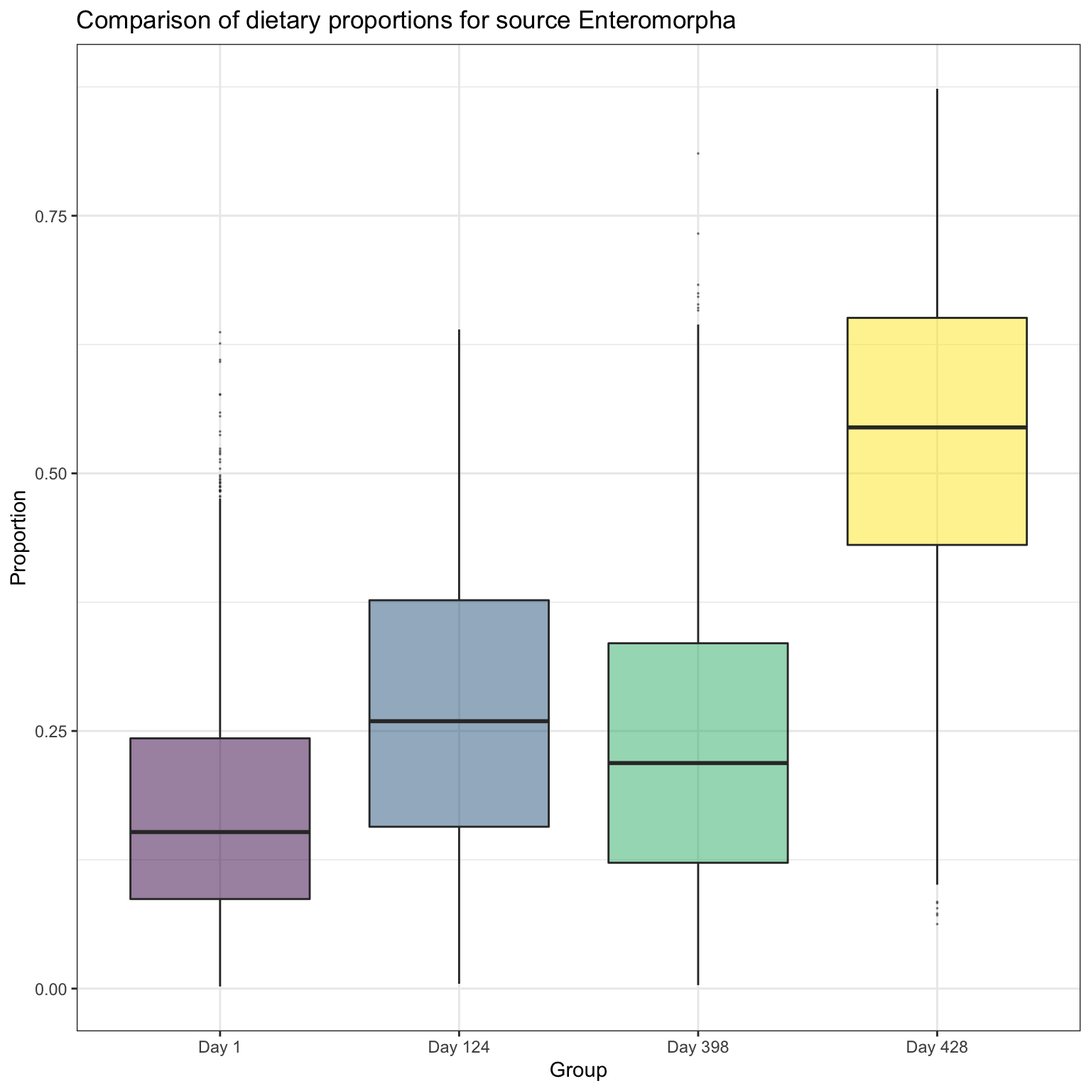
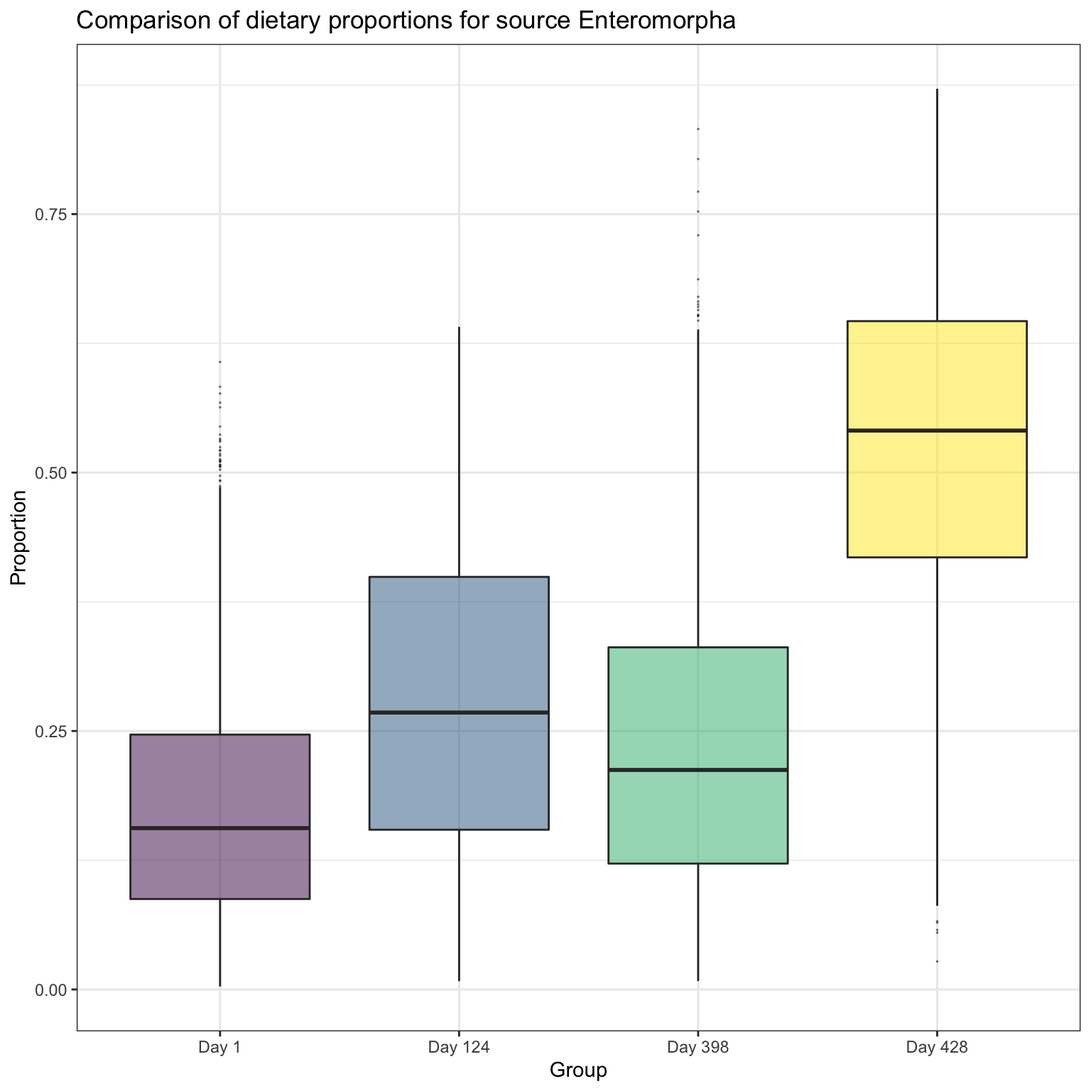
Updated pkg down

diff --git a/docs/articles/simmr.html b/docs/articles/simmr.html
@@ -210,7 +210,7 @@
 </div>
 <div id="step-3-running-simmr" class="section level3">
 <h3 class="hasAnchor">
-<a href="#step-3-running-simmr" class="anchor"></a>Step 3: running simmr</h3>
+<a href="#step-3-running-simmr" class="anchor"></a>Step 3: Running simmr</h3>
 <p>The next step is to actually run the model. This is achieved with the command:</p>
 <div class="sourceCode" id="cb7"><html><body><pre class="r"><span class="no">simmr_out</span> <span class="kw">=</span> <span class="fu"><a href="../reference/simmr_mcmc.html">simmr_mcmc</a></span>(<span class="no">simmr_in</span>)</pre></body></html></div>
 <pre><code>## module glm loaded</code></pre>
@@ -219,7 +219,7 @@
 </div>
 <div id="step-4-checking-the-algorithm-converged" class="section level3">
 <h3 class="hasAnchor">
-<a href="#step-4-checking-the-algorithm-converged" class="anchor"></a>Step 4: checking the algorithm converged</h3>
+<a href="#step-4-checking-the-algorithm-converged" class="anchor"></a>Step 4: Checking the algorithm converged</h3>
 <p>Markov chain Monte Carlo (MCMC) works by repeatedly guessing the values of the dietary proportions and find those values which fit the data best. The initial guesses are usually poor and are discarded as part of an initial phase known as the burn-in. Subsequent iterations are then stored and used for the <em>posterior distribution</em>; the best estimates of the dietary proportions given the data and the model. Because it can take many thousands of iterations to move away from the initial guesses, <em>convergence diagnostics</em> can be created to check the model has run properly. In <code>simmr</code> this is done with:</p>
 <div class="sourceCode" id="cb9"><html><body><pre class="r"><span class="fu"><a href="https://rdrr.io/r/base/summary.html">summary</a></span>(<span class="no">simmr_out</span>, <span class="kw">type</span> <span class="kw">=</span> <span class="st">'diagnostics'</span>)</pre></body></html></div>
 <pre><code>## 
@@ -234,7 +234,7 @@
 </div>
 <div id="step-5-checking-the-model-fit" class="section level3">
 <h3 class="hasAnchor">
-<a href="#step-5-checking-the-model-fit" class="anchor"></a>Step 5: checking the model fit</h3>
+<a href="#step-5-checking-the-model-fit" class="anchor"></a>Step 5: Checking the model fit</h3>
 <p>You can check the fit of the model with a posterior predictive check. This is similar to a fitted values plot in a linear regression. If the data points (denoted by the plot as <span class="math inline">\(y\)</span>) broadly lie in the fitted value intervals (denoted <span class="math inline">\(y_rep\)</span>; the default is a 50% interval) then the model is fitting well:</p>
 <div class="sourceCode" id="cb11"><html><body><pre class="r"><span class="no">post_pred</span> <span class="kw">=</span> <span class="fu"><a href="../reference/posterior_predictive.html">posterior_predictive</a></span>(<span class="no">simmr_out</span>)</pre></body></html></div>
 <p><img src="simmr_files/figure-html/unnamed-chunk-10-1.png" width="700"></p>
@@ -243,7 +243,7 @@
 </div>
 <div id="step-6-exploring-the-results" class="section level3">
 <h3 class="hasAnchor">
-<a href="#step-6-exploring-the-results" class="anchor"></a>Step 6: exploring the results</h3>
+<a href="#step-6-exploring-the-results" class="anchor"></a>Step 6: Exploring the results</h3>
 <p>All SIMMs use informative (usually generalist) prior distributions as a default. You can plot the priors and the posteriors with:</p>
 <div class="sourceCode" id="cb13"><html><body><pre class="r"><span class="fu"><a href="../reference/prior_viz.html">prior_viz</a></span>(<span class="no">simmr_out</span>)</pre></body></html></div>
 <p><img src="simmr_files/figure-html/unnamed-chunk-11-1.png" width="700"></p>
@@ -252,24 +252,24 @@
 <pre><code>## 
 ## Summary for 1 
 ##                mean    sd
-## deviance     36.331 3.175
-## Zostera       0.219 0.131
-## Grass         0.286 0.079
-## U.lactuca     0.275 0.032
-## Enteromorpha  0.220 0.122
-## sd[d13C]      0.553 0.234
-## sd[d15N]      0.433 0.232</code></pre>
+## deviance     36.338 3.219
+## Zostera       0.220 0.131
+## Grass         0.288 0.080
+## U.lactuca     0.277 0.032
+## Enteromorpha  0.216 0.119
+## sd[d13C]      0.553 0.233
+## sd[d15N]      0.427 0.234</code></pre>
 <div class="sourceCode" id="cb16"><html><body><pre class="r"><span class="fu"><a href="https://rdrr.io/r/base/summary.html">summary</a></span>(<span class="no">simmr_out</span>, <span class="kw">type</span> <span class="kw">=</span> <span class="st">'quantiles'</span>)</pre></body></html></div>
 <pre><code>## 
 ## Summary for 1 
 ##                2.5%    25%    50%    75%  97.5%
-## deviance     32.246 33.986 35.658 37.947 44.242
-## Zostera       0.030  0.111  0.200  0.311  0.500
-## Grass         0.147  0.229  0.281  0.335  0.454
-## U.lactuca     0.215  0.253  0.274  0.296  0.343
-## Enteromorpha  0.033  0.122  0.208  0.305  0.468
-## sd[d13C]      0.191  0.400  0.515  0.677  1.114
-## sd[d15N]      0.049  0.277  0.413  0.554  0.977</code></pre>
+## deviance     32.286 34.003 35.667 37.962 44.238
+## Zostera       0.030  0.116  0.199  0.306  0.509
+## Grass         0.142  0.233  0.283  0.337  0.462
+## U.lactuca     0.214  0.255  0.276  0.297  0.343
+## Enteromorpha  0.033  0.121  0.202  0.300  0.473
+## sd[d13C]      0.187  0.397  0.525  0.676  1.078
+## sd[d15N]      0.044  0.271  0.402  0.552  0.955</code></pre>
 <p>These suggest that the dietary proportions for this model are quite uncertain. However we can see that the credible interval for U.lactuca is the narrowest, running from approximately 20% to 35% of the diet. The reason this one is the narrowest can be seen from the isospace plot - this source is the most clearly separated from the others.</p>
 <p><code>simmr</code> can also produce histograms, boxplots, density plots, and matrix plots of the output. Starting with the density plot:</p>
 <div class="sourceCode" id="cb18"><html><body><pre class="r"><span class="fu"><a href="https://rdrr.io/r/base/plot.html">plot</a></span>(<span class="no">simmr_out</span>, <span class="kw">type</span> <span class="kw">=</span> <span class="st">'density'</span>)</pre></body></html></div>
@@ -282,7 +282,7 @@
 <p>If you want to compare the dietary proportions between two different sources, you can use the <code>compare_sources</code> function. This takes two or more sources and compares the dietary proportions with an optional plot. For example:</p>
 <div class="sourceCode" id="cb20"><html><body><pre class="r"><span class="fu"><a href="../reference/compare_sources.html">compare_sources</a></span>(<span class="no">simmr_out</span>,
                 <span class="kw">source_names</span> <span class="kw">=</span> <span class="fu"><a href="https://rdrr.io/r/base/c.html">c</a></span>(<span class="st">'Zostera'</span>,<span class="st">'U.lactuca'</span>))</pre></body></html></div>
-<pre><code>## Prob ( proportion of Zostera &gt; proportion of U.lactuca ) = 0.337</code></pre>
+<pre><code>## Prob ( proportion of Zostera &gt; proportion of U.lactuca ) = 0.328</code></pre>
 <p><img src="simmr_files/figure-html/unnamed-chunk-15-1.png" width="672" style="display: block; margin: auto;"></p>
 <p>This produces a direct probability that the dietary proportion for the first source is bigger than that of the second. If you want to compare more than two sources, specify them with:</p>
 <div class="sourceCode" id="cb22"><html><body><pre class="r"><span class="fu"><a href="../reference/compare_sources.html">compare_sources</a></span>(<span class="no">simmr_out</span>,
@@ -291,12 +291,12 @@
                                  <span class="st">'Enteromorpha'</span>))</pre></body></html></div>
 <pre><code>## Most popular orderings are as follows:
 ##                                    Probability
-## Zostera &gt; U.lactuca &gt; Enteromorpha      0.3011
-## Enteromorpha &gt; U.lactuca &gt; Zostera      0.2869
-## U.lactuca &gt; Enteromorpha &gt; Zostera      0.2117
-## U.lactuca &gt; Zostera &gt; Enteromorpha      0.1642
-## Zostera &gt; Enteromorpha &gt; U.lactuca      0.0192
-## Enteromorpha &gt; Zostera &gt; U.lactuca      0.0169</code></pre>
+## Zostera &gt; U.lactuca &gt; Enteromorpha      0.2914
+## Enteromorpha &gt; U.lactuca &gt; Zostera      0.2697
+## U.lactuca &gt; Enteromorpha &gt; Zostera      0.2222
+## U.lactuca &gt; Zostera &gt; Enteromorpha      0.1806
+## Zostera &gt; Enteromorpha &gt; U.lactuca      0.0214
+## Enteromorpha &gt; Zostera &gt; U.lactuca      0.0147</code></pre>
 <p><img src="simmr_files/figure-html/unnamed-chunk-16-1.png" width="672" style="display: block; margin: auto;"></p>
 <p>For further information and options on comparing sources, see <code><a href="../reference/compare_sources.html">help(compare_sources)</a></code>.</p>
 </div>
@@ -342,75 +342,75 @@
 <pre><code>## 
 ## Summary for period 1 
 ##                2.5%    25%    50%    75%  97.5%
-## deviance     51.159 52.577 54.029 56.217 62.765
-## Zostera       0.387  0.520  0.597  0.675  0.814
-## Grass         0.034  0.059  0.072  0.086  0.118
-## U.lactuca     0.023  0.075  0.126  0.194  0.318
-## Enteromorpha  0.020  0.085  0.165  0.272  0.487
-## sd[]          0.052  0.508  0.883  1.291  2.458
-## sd[]          0.014  0.178  0.367  0.646  1.412</code></pre>
+## deviance     51.126 52.534 53.954 56.204 62.655
+## Zostera       0.384  0.522  0.599  0.675  0.810
+## Grass         0.032  0.057  0.071  0.086  0.116
+## U.lactuca     0.020  0.073  0.125  0.189  0.312
+## Enteromorpha  0.024  0.092  0.169  0.273  0.482
+## sd[]          0.067  0.510  0.878  1.302  2.457
+## sd[]          0.017  0.174  0.365  0.643  1.422</code></pre>
 <div class="sourceCode" id="cb30"><html><body><pre class="r"><span class="fu"><a href="https://rdrr.io/r/base/summary.html">summary</a></span>(<span class="no">simmr_groups_out</span>,
         <span class="kw">type</span> <span class="kw">=</span> <span class="st">'quantiles'</span>,
         <span class="kw">group</span> <span class="kw">=</span> <span class="fu"><a href="https://rdrr.io/r/base/c.html">c</a></span>(<span class="fl">1</span>,<span class="fl">3</span>))</pre></body></html></div>
 <pre><code>## 
 ## Summary for period 1 
 ##                2.5%    25%    50%    75%  97.5%
-## deviance     51.159 52.577 54.029 56.217 62.765
-## Zostera       0.387  0.520  0.597  0.675  0.814
-## Grass         0.034  0.059  0.072  0.086  0.118
-## U.lactuca     0.023  0.075  0.126  0.194  0.318
-## Enteromorpha  0.020  0.085  0.165  0.272  0.487
-## sd[]          0.052  0.508  0.883  1.291  2.458
-## sd[]          0.014  0.178  0.367  0.646  1.412
+## deviance     51.126 52.534 53.954 56.204 62.655
+## Zostera       0.384  0.522  0.599  0.675  0.810
+## Grass         0.032  0.057  0.071  0.086  0.116
+## U.lactuca     0.020  0.073  0.125  0.189  0.312
+## Enteromorpha  0.024  0.092  0.169  0.273  0.482
+## sd[]          0.067  0.510  0.878  1.302  2.457
+## sd[]          0.017  0.174  0.365  0.643  1.422
 ## 
 ## Summary for period 3 
 ##                 2.5%     25%     50%     75%   97.5%
-## deviance     454.624 456.485 458.095 460.305 466.940
-## Zostera        0.010   0.025   0.037   0.052   0.088
-## Grass          0.391   0.416   0.428   0.437   0.453
-## U.lactuca      0.282   0.392   0.437   0.471   0.519
-## Enteromorpha   0.016   0.052   0.091   0.144   0.289
-## sd[]           0.419   0.658   0.766   0.876   1.072
-## sd[]           0.007   0.076   0.159   0.266   0.540</code></pre>
+## deviance     454.626 456.436 458.104 460.279 466.858
+## Zostera        0.010   0.025   0.037   0.052   0.089
+## Grass          0.390   0.416   0.427   0.436   0.452
+## U.lactuca      0.277   0.390   0.434   0.469   0.522
+## Enteromorpha   0.014   0.052   0.093   0.149   0.299
+## sd[]           0.416   0.664   0.774   0.877   1.081
+## sd[]           0.007   0.073   0.155   0.261   0.528</code></pre>
 <div class="sourceCode" id="cb32"><html><body><pre class="r"><span class="fu"><a href="https://rdrr.io/r/base/summary.html">summary</a></span>(<span class="no">simmr_groups_out</span>,
         <span class="kw">type</span> <span class="kw">=</span> <span class="fu"><a href="https://rdrr.io/r/base/c.html">c</a></span>(<span class="st">'quantiles'</span>,<span class="st">'statistics'</span>),
         <span class="kw">group</span> <span class="kw">=</span> <span class="fu"><a href="https://rdrr.io/r/base/c.html">c</a></span>(<span class="fl">1</span>,<span class="fl">3</span>))</pre></body></html></div>
 <pre><code>## 
 ## Summary for period 1 
 ##                2.5%    25%    50%    75%  97.5%
-## deviance     51.159 52.577 54.029 56.217 62.765
-## Zostera       0.387  0.520  0.597  0.675  0.814
-## Grass         0.034  0.059  0.072  0.086  0.118
-## U.lactuca     0.023  0.075  0.126  0.194  0.318
-## Enteromorpha  0.020  0.085  0.165  0.272  0.487
-## sd[]          0.052  0.508  0.883  1.291  2.458
-## sd[]          0.014  0.178  0.367  0.646  1.412
+## deviance     51.126 52.534 53.954 56.204 62.655
+## Zostera       0.384  0.522  0.599  0.675  0.810
+## Grass         0.032  0.057  0.071  0.086  0.116
+## U.lactuca     0.020  0.073  0.125  0.189  0.312
+## Enteromorpha  0.024  0.092  0.169  0.273  0.482
+## sd[]          0.067  0.510  0.878  1.302  2.457
+## sd[]          0.017  0.174  0.365  0.643  1.422
 ##                mean    sd
-## deviance     54.811 3.082
+## deviance     54.754 3.108
 ## Zostera       0.598 0.110
-## Grass         0.073 0.022
-## U.lactuca     0.140 0.082
-## Enteromorpha  0.189 0.126
-## sd[]          0.960 0.634
-## sd[]          0.462 0.386
+## Grass         0.072 0.021
+## U.lactuca     0.137 0.081
+## Enteromorpha  0.193 0.126
+## sd[]          0.960 0.623
+## sd[]          0.457 0.389
 ## 
 ## Summary for period 3 
 ##                 2.5%     25%     50%     75%   97.5%
-## deviance     454.624 456.485 458.095 460.305 466.940
-## Zostera        0.010   0.025   0.037   0.052   0.088
-## Grass          0.391   0.416   0.428   0.437   0.453
-## U.lactuca      0.282   0.392   0.437   0.471   0.519
-## Enteromorpha   0.016   0.052   0.091   0.144   0.289
-## sd[]           0.419   0.658   0.766   0.876   1.072
-## sd[]           0.007   0.076   0.159   0.266   0.540
+## deviance     454.626 456.436 458.104 460.279 466.858
+## Zostera        0.010   0.025   0.037   0.052   0.089
+## Grass          0.390   0.416   0.427   0.436   0.452
+## U.lactuca      0.277   0.390   0.434   0.469   0.522
+## Enteromorpha   0.014   0.052   0.093   0.149   0.299
+## sd[]           0.416   0.664   0.774   0.877   1.081
+## sd[]           0.007   0.073   0.155   0.261   0.528
 ##                 mean    sd
-## deviance     458.778 3.242
+## deviance     458.761 3.220
 ## Zostera        0.040 0.021
-## Grass          0.426 0.016
-## U.lactuca      0.427 0.061
-## Enteromorpha   0.107 0.073
-## sd[]           0.763 0.167
-## sd[]           0.188 0.142</code></pre>
+## Grass          0.425 0.016
+## U.lactuca      0.425 0.063
+## Enteromorpha   0.110 0.075
+## sd[]           0.768 0.167
+## sd[]           0.183 0.141</code></pre>
 <p>For plotting output with multiple groups you can only specify a single group to plot. This is so that you are not overwhelmed with plots:</p>
 <div class="sourceCode" id="cb34"><html><body><pre class="r"><span class="fu"><a href="https://rdrr.io/r/base/plot.html">plot</a></span>(<span class="no">simmr_groups_out</span>,
      <span class="kw">type</span> <span class="kw">=</span> <span class="st">'boxplot'</span>,
@@ -477,10 +477,10 @@
                <span class="kw">group</span> <span class="kw">=</span> <span class="fl">1</span>:<span class="fl">3</span>)</pre></body></html></div>
 <pre><code>## Most popular orderings are as follows:
 ##                                Probability
-## period 2 &gt; period 3 &gt; period 1      0.9511
-## period 2 &gt; period 1 &gt; period 3      0.0483
-## period 1 &gt; period 2 &gt; period 3      0.0003
-## period 3 &gt; period 2 &gt; period 1      0.0003</code></pre>
+## period 2 &gt; period 3 &gt; period 1      0.9483
+## period 2 &gt; period 1 &gt; period 3      0.0500
+## period 1 &gt; period 2 &gt; period 3      0.0008
+## period 3 &gt; period 2 &gt; period 1      0.0008</code></pre>
 <p><img src="simmr_files/figure-html/unnamed-chunk-26-4.png" width="672" style="display: block; margin: auto;"></p>
 </div>
 <div id="running-simmr-with-only-one-isotope" class="section level2">
@@ -532,13 +532,13 @@
 <pre><code>## 
 ## Summary for 1 
 ##                2.5%    25%    50%    75%  97.5%
-## deviance     32.246 33.986 35.658 37.947 44.242
-## Zostera       0.030  0.111  0.200  0.311  0.500
-## Grass         0.147  0.229  0.281  0.335  0.454
-## U.lactuca     0.215  0.253  0.274  0.296  0.343
-## Enteromorpha  0.033  0.122  0.208  0.305  0.468
-## sd[d13C]      0.191  0.400  0.515  0.677  1.114
-## sd[d15N]      0.049  0.277  0.413  0.554  0.977</code></pre>
+## deviance     32.286 34.003 35.667 37.962 44.238
+## Zostera       0.030  0.116  0.199  0.306  0.509
+## Grass         0.142  0.233  0.283  0.337  0.462
+## U.lactuca     0.214  0.255  0.276  0.297  0.343
+## Enteromorpha  0.033  0.121  0.202  0.300  0.473
+## sd[d13C]      0.187  0.397  0.525  0.676  1.078
+## sd[d15N]      0.044  0.271  0.402  0.552  0.955</code></pre>
 <p>All these dietary proportions are very similar. We now suppose we had prior information (e.g. from stomach or fecal contents) that the mean dietary proportions were</p>
 <div class="sourceCode" id="cb55"><html><body><pre class="r"><span class="no">proportion_means</span> <span class="kw">=</span> <span class="fu"><a href="https://rdrr.io/r/base/c.html">c</a></span>(<span class="fl">0.4</span>,<span class="fl">0.3</span>,<span class="fl">0.2</span>,<span class="fl">0.1</span>)</pre></body></html></div>
 <p>…and proportion standard deviations:</p>
@@ -550,9 +550,9 @@
 ## Mean optimisation successful.
 ## Standard deviation optimisation successful.
 ## Best fit estimates provide proportion means of:
-## 0.433 0.308 0.173 0.085
+## 0.44 0.296 0.185 0.079
 ## ... and best fit standard deviations of:
-## 0.048 0.027 0.015 0.025</code></pre>
+## 0.05 0.027 0.018 0.022</code></pre>
 <p>This may take a few moments to run as the code tries to optimise the parameters of a prior distribution which matches these means and standard deviations, which sometimes may not be exactly possible.</p>
 <p>When finished, the model can be run using these prior distributions:</p>
 <div class="sourceCode" id="cb59"><html><body><pre class="r"><span class="no">simmr_out_informative</span> <span class="kw">=</span> <span class="fu"><a href="../reference/simmr_mcmc.html">simmr_mcmc</a></span>(<span class="no">simmr_in</span>,
@@ -574,13 +574,13 @@
 <pre><code>## 
 ## Summary for 1 
 ##                2.5%    25%    50%    75%  97.5%
-## deviance     46.905 50.077 51.934 54.309 59.664
-## Zostera       0.306  0.358  0.388  0.419  0.480
-## Grass         0.284  0.320  0.338  0.355  0.388
-## U.lactuca     0.160  0.180  0.190  0.200  0.217
-## Enteromorpha  0.048  0.068  0.081  0.096  0.132
-## sd[d13C]      0.500  0.710  0.866  1.056  1.584
-## sd[d15N]      0.395  0.643  0.806  1.010  1.565</code></pre>
+## deviance     38.042 41.877 44.394 47.127 54.237
+## Zostera       0.310  0.358  0.386  0.414  0.472
+## Grass         0.275  0.308  0.323  0.339  0.369
+## U.lactuca     0.179  0.202  0.214  0.225  0.246
+## Enteromorpha  0.045  0.063  0.074  0.087  0.121
+## sd[d13C]      0.360  0.562  0.693  0.863  1.374
+## sd[d15N]      0.180  0.450  0.605  0.775  1.293</code></pre>
 <p>We can plot these priors with their posteriors</p>
 <div class="sourceCode" id="cb63"><html><body><pre class="r"><span class="fu"><a href="../reference/prior_viz.html">prior_viz</a></span>(<span class="no">simmr_out_informative</span>)</pre></body></html></div>
 <p><img src="simmr_files/figure-html/unnamed-chunk-38-1.png" width="700"></p>
@@ -619,15 +619,15 @@
 <p>… and then look at the predicted TDFs:</p>
 <div class="sourceCode" id="cb70"><html><body><pre class="r"><span class="fu"><a href="https://rdrr.io/r/base/summary.html">summary</a></span>(<span class="no">simmr_tdf_out</span>,<span class="kw">type</span> <span class="kw">=</span> <span class="st">'quantiles'</span>)</pre></body></html></div>
 <pre><code>##               2.5%    25%    50%    75%  97.5%
-## c_mean[1,1]  2.100  2.469  2.625  2.771  3.115
-## c_mean[2,1]  2.100  2.469  2.625  2.771  3.115
-## c_mean[3,1]  2.100  2.469  2.625  2.771  3.115
-## c_mean[4,1]  2.100  2.469  2.625  2.771  3.115
-## c_sd[1,1]    0.162  0.573  0.830  1.103  1.825
-## c_sd[2,1]    0.162  0.573  0.830  1.103  1.825
-## c_sd[3,1]    0.162  0.573  0.830  1.103  1.825
-## c_sd[4,1]    0.162  0.573  0.830  1.103  1.825
-## deviance    16.971 17.827 19.093 21.268 27.923</code></pre>
+## c_mean[1,1]  2.116  2.475  2.627  2.778  3.109
+## c_mean[2,1]  2.116  2.475  2.627  2.778  3.109
+## c_mean[3,1]  2.116  2.475  2.627  2.778  3.109
+## c_mean[4,1]  2.116  2.475  2.627  2.778  3.109
+## c_sd[1,1]    0.169  0.584  0.831  1.107  1.840
+## c_sd[2,1]    0.169  0.584  0.831  1.107  1.840
+## c_sd[3,1]    0.169  0.584  0.831  1.107  1.840
+## c_sd[4,1]    0.169  0.584  0.831  1.107  1.840
+## deviance    16.997 17.825 19.076 21.173 27.884</code></pre>
 <p>We can put the predicted TDFs back into a new model and check that the iso-space plot now is correct</p>
 <div class="sourceCode" id="cb72"><html><body><pre class="r"><span class="no">simmr_tdf_2</span> <span class="kw">=</span> <span class="fu"><a href="../reference/simmr_load.html">simmr_load</a></span>(<span class="kw">mixtures</span> <span class="kw">=</span> <span class="no">mix</span>,
                          <span class="kw">source_names</span> <span class="kw">=</span> <span class="no">s_names</span>,
@@ -646,11 +646,11 @@
 <div class="sourceCode" id="cb73"><html><body><pre class="r"><span class="fu"><a href="https://rdrr.io/r/utils/str.html">str</a></span>(<span class="no">simmr_in</span>)</pre></body></html></div>
 <p>which will show their contents. The <code>simmr_out</code> object in particular allows for full access to all of the posterior dietary proportion samples. We can calculate for example the mean of the Zostera dietary proportion on the first (or only) group:</p>
 <div class="sourceCode" id="cb74"><html><body><pre class="r"><span class="fu"><a href="https://rdrr.io/r/base/mean.html">mean</a></span>(<span class="no">simmr_out</span>$<span class="no">output</span>$<span class="no">`1`</span>$<span class="no">BUGSoutput</span>$<span class="no">sims.list</span>$<span class="no">p</span>[,<span class="st">'Zostera'</span>])</pre></body></html></div>
-<pre><code>## [1] 0.2186732</code></pre>
+<pre><code>## [1] 0.21958</code></pre>
 <p>The backquotes around the 1 are required above because they specify which group (the first). We can thus find the probability that the posterior dietary proportion for Zostera is bigger than for Grass:</p>
 <div class="sourceCode" id="cb76"><html><body><pre class="r"><span class="fu"><a href="https://rdrr.io/r/base/mean.html">mean</a></span>(<span class="no">simmr_out</span>$<span class="no">output</span>$<span class="no">`1`</span>$<span class="no">BUGSoutput</span>$<span class="no">sims.list</span>$<span class="no">p</span>[,<span class="st">'Zostera'</span>]
      <span class="kw">&gt;</span> <span class="no">simmr_out</span>$<span class="no">output</span>$<span class="no">`1`</span>$<span class="no">BUGSoutput</span>$<span class="no">sims.list</span>$<span class="no">p</span>[,<span class="st">'Grass'</span>])</pre></body></html></div>
-<pre><code>## [1] 0.3388889</code></pre>
+<pre><code>## [1] 0.3255556</code></pre>
 <p>With more detailed R knowledge, it is possible to create scripts which run multiple data sets in richer fashions than the default <code>simmr</code> functions. See the help file <code><a href="../reference/simmr_mcmc.html">help(simmr_mcmc)</a></code> for a full list of examples.</p>
 </div>
 <div id="appendix---suggested-reading" class="section level2">

diff --git a/docs/articles/quick_start.html b/docs/articles/quick_start.html
@@ -173,30 +173,30 @@
                <span class="kw">source_name</span> <span class="kw">=</span> <span class="st">'Enteromorpha'</span>)</pre></body></html></div>
 <pre><code>## Most popular orderings are as follows:
 ##                                     Probability
-## Day 428 &gt; Day 124 &gt; Day 398 &gt; Day 1      0.2239
-## Day 428 &gt; Day 398 &gt; Day 124 &gt; Day 1      0.1803
-## Day 428 &gt; Day 124 &gt; Day 1 &gt; Day 398      0.1619
-## Day 428 &gt; Day 398 &gt; Day 1 &gt; Day 124      0.0983
-## Day 428 &gt; Day 1 &gt; Day 124 &gt; Day 398      0.0881
-## Day 428 &gt; Day 1 &gt; Day 398 &gt; Day 124      0.0719
-## Day 124 &gt; Day 428 &gt; Day 398 &gt; Day 1      0.0403
-## Day 398 &gt; Day 428 &gt; Day 124 &gt; Day 1      0.0325
-## Day 124 &gt; Day 428 &gt; Day 1 &gt; Day 398      0.0278
-## Day 398 &gt; Day 428 &gt; Day 1 &gt; Day 124      0.0158
-## Day 124 &gt; Day 398 &gt; Day 428 &gt; Day 1      0.0136
-## Day 398 &gt; Day 124 &gt; Day 428 &gt; Day 1      0.0128
-## Day 1 &gt; Day 428 &gt; Day 124 &gt; Day 398      0.0061
-## Day 1 &gt; Day 428 &gt; Day 398 &gt; Day 124      0.0058
-## Day 124 &gt; Day 1 &gt; Day 428 &gt; Day 398      0.0044
-## Day 398 &gt; Day 1 &gt; Day 428 &gt; Day 124      0.0036
-## Day 1 &gt; Day 124 &gt; Day 428 &gt; Day 398      0.0025
+## Day 428 &gt; Day 124 &gt; Day 398 &gt; Day 1      0.2253
+## Day 428 &gt; Day 398 &gt; Day 124 &gt; Day 1      0.1608
+## Day 428 &gt; Day 124 &gt; Day 1 &gt; Day 398      0.1514
+## Day 428 &gt; Day 398 &gt; Day 1 &gt; Day 124      0.1008
+## Day 428 &gt; Day 1 &gt; Day 124 &gt; Day 398      0.0883
+## Day 428 &gt; Day 1 &gt; Day 398 &gt; Day 124      0.0700
+## Day 124 &gt; Day 428 &gt; Day 398 &gt; Day 1      0.0550
+## Day 398 &gt; Day 428 &gt; Day 124 &gt; Day 1      0.0350
+## Day 124 &gt; Day 428 &gt; Day 1 &gt; Day 398      0.0333
+## Day 124 &gt; Day 398 &gt; Day 428 &gt; Day 1      0.0158
+## Day 398 &gt; Day 428 &gt; Day 1 &gt; Day 124      0.0156
+## Day 398 &gt; Day 124 &gt; Day 428 &gt; Day 1      0.0122
+## Day 124 &gt; Day 1 &gt; Day 428 &gt; Day 398      0.0072
+## Day 1 &gt; Day 428 &gt; Day 124 &gt; Day 398      0.0056
+## Day 1 &gt; Day 428 &gt; Day 398 &gt; Day 124      0.0050
+## Day 398 &gt; Day 1 &gt; Day 428 &gt; Day 124      0.0031
+## Day 1 &gt; Day 124 &gt; Day 428 &gt; Day 398      0.0028
 ## Day 124 &gt; Day 398 &gt; Day 1 &gt; Day 428      0.0025
 ## Day 1 &gt; Day 398 &gt; Day 428 &gt; Day 124      0.0022
-## Day 1 &gt; Day 124 &gt; Day 398 &gt; Day 428      0.0014
-## Day 1 &gt; Day 398 &gt; Day 124 &gt; Day 428      0.0011
-## Day 398 &gt; Day 1 &gt; Day 124 &gt; Day 428      0.0011
-## Day 398 &gt; Day 124 &gt; Day 1 &gt; Day 428      0.0011
-## Day 124 &gt; Day 1 &gt; Day 398 &gt; Day 428      0.0008</code></pre>
+## Day 124 &gt; Day 1 &gt; Day 398 &gt; Day 428      0.0022
+## Day 1 &gt; Day 124 &gt; Day 398 &gt; Day 428      0.0019
+## Day 398 &gt; Day 1 &gt; Day 124 &gt; Day 428      0.0019
+## Day 398 &gt; Day 124 &gt; Day 1 &gt; Day 428      0.0017
+## Day 1 &gt; Day 398 &gt; Day 124 &gt; Day 428      0.0003</code></pre>
 <p><img src="quick_start_files/figure-html/unnamed-chunk-13-1.png" width="768"></p>
 <p>For the many more options available to run and analyse output, see the main vignette via <code><a href="../articles/simmr.html">vignette('simmr')</a></code></p>
 </div>
